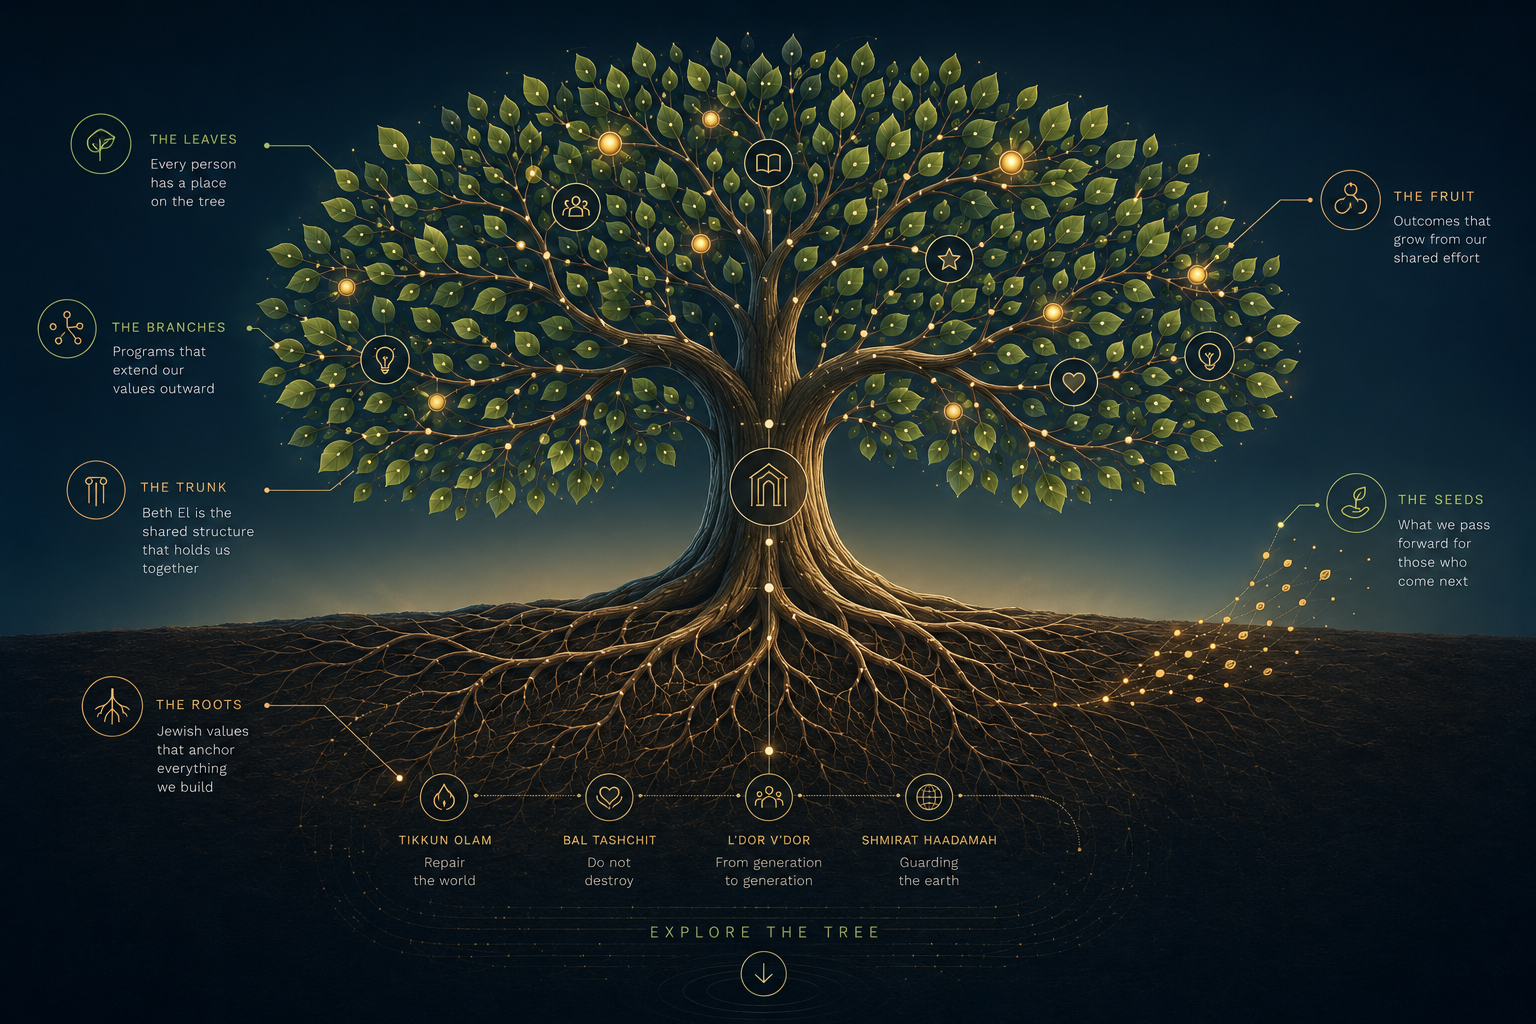
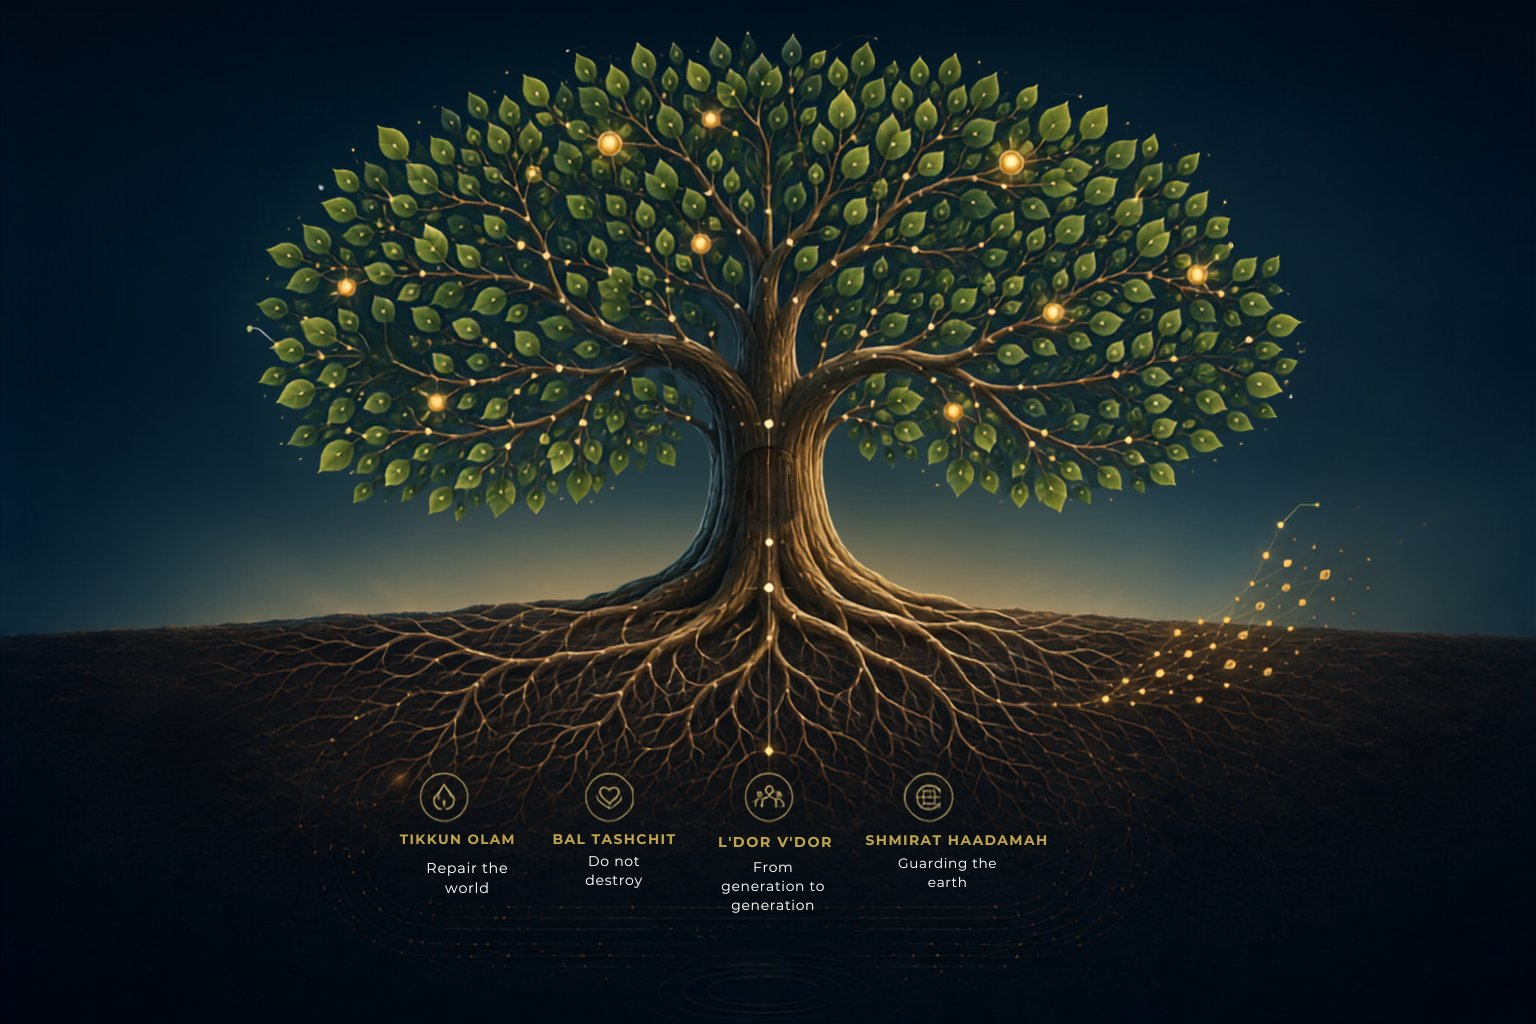
Add files via upload

diff --git a/index.html b/index.html
@@ -181,19 +181,37 @@
     }
     .scroll-arrow:hover { color: var(--gold); }
 
-    /* Clickable tree zones */
-    .tree-zone {
+    /* Clickable tree badges — SVG overlay */
+    .tree-badges {
       position: absolute;
+      inset: 0;
       z-index: 3;
-      border-radius: 8px;
-      border: 1px solid transparent;
-      transition: background 0.2s, border-color 0.2s;
+      pointer-events: none;
+    }
+
+    .tree-badge {
+      pointer-events: all;
       cursor: pointer;
+      text-decoration: none;
     }
-    .tree-zone:hover {
-      background: rgba(200,151,74,0.12);
-      border-color: rgba(200,151,74,0.4);
+
+    .tree-badge circle {
+      transition: fill 0.25s, filter 0.25s;
+      filter: drop-shadow(0 0 4px rgba(200,151,74,0.3));
     }
+
+    .tree-badge:hover circle {
+      fill: rgba(200,151,74,0.25);
+      filter: drop-shadow(0 0 10px rgba(200,151,74,0.8));
+    }
+
+    .tree-badge text {
+      transition: fill 0.25s;
+      pointer-events: none;
+      user-select: none;
+    }
+
+    .tree-badge:hover text { fill: #FFD980; }
 
     /* ══════════════════════════════════════════════
        SHARED SECTION STYLES
@@ -659,13 +677,52 @@
   </div>
   <a href="#roots" class="scroll-arrow" aria-label="Scroll down">↓</a>
 
-  <!-- Clickable label zones mapped to tree image positions -->
-  <a href="#leaves"   class="tree-zone" style="left:4%;  top:8%;  width:14%; height:18%;" aria-label="The Leaves — scroll to section"></a>
-  <a href="#branches" class="tree-zone" style="left:1%;  top:27%; width:14%; height:14%;" aria-label="The Branches — scroll to section"></a>
-  <a href="#trunk"    class="tree-zone" style="left:1%;  top:42%; width:14%; height:14%;" aria-label="The Trunk — scroll to section"></a>
-  <a href="#roots"    class="tree-zone" style="left:1%;  top:59%; width:14%; height:18%;" aria-label="The Roots — scroll to section"></a>
-  <a href="#fruit"    class="tree-zone" style="left:85%; top:13%; width:14%; height:18%;" aria-label="The Fruit — scroll to section"></a>
-  <a href="#seeds"    class="tree-zone" style="left:85%; top:40%; width:14%; height:18%;" aria-label="The Seeds — scroll to section"></a>
+  <!-- SVG badge overlay — positioned as % of hero dimensions -->
+  <svg class="tree-badges" viewBox="0 0 100 100" preserveAspectRatio="none" xmlns="http://www.w3.org/2000/svg">
+
+    <!-- LEAVES — upper left canopy ~22%, 18% -->
+    <a href="#leaves" class="tree-badge" aria-label="The Leaves">
+      <circle cx="22" cy="18" r="5.5" fill="rgba(10,25,15,0.65)" stroke="#C8974A" stroke-width="0.4"/>
+      <text x="22" y="16.8" text-anchor="middle" font-family="'DM Mono',monospace" font-size="2.2" fill="#C8E6A0" font-weight="bold" letter-spacing="0.3">THE</text>
+      <text x="22" y="19.6" text-anchor="middle" font-family="'DM Mono',monospace" font-size="2.2" fill="#C8E6A0" font-weight="bold" letter-spacing="0.3">LEAVES</text>
+    </a>
+
+    <!-- FRUIT — upper right canopy ~78%, 16% -->
+    <a href="#fruit" class="tree-badge" aria-label="The Fruit">
+      <circle cx="78" cy="16" r="5.5" fill="rgba(10,25,15,0.65)" stroke="#C8974A" stroke-width="0.4"/>
+      <text x="78" y="14.8" text-anchor="middle" font-family="'DM Mono',monospace" font-size="2.2" fill="#C8E6A0" font-weight="bold" letter-spacing="0.3">THE</text>
+      <text x="78" y="17.6" text-anchor="middle" font-family="'DM Mono',monospace" font-size="2.2" fill="#C8E6A0" font-weight="bold" letter-spacing="0.3">FRUIT</text>
+    </a>
+
+    <!-- BRANCHES — left mid canopy ~18%, 38% -->
+    <a href="#branches" class="tree-badge" aria-label="The Branches">
+      <circle cx="18" cy="38" r="5.5" fill="rgba(10,25,15,0.65)" stroke="#C8974A" stroke-width="0.4"/>
+      <text x="18" y="36.8" text-anchor="middle" font-family="'DM Mono',monospace" font-size="2.2" fill="#C8E6A0" font-weight="bold" letter-spacing="0.3">THE</text>
+      <text x="18" y="39.6" text-anchor="middle" font-family="'DM Mono',monospace" font-size="2.2" fill="#C8E6A0" font-weight="bold" letter-spacing="0.2">BRANCHES</text>
+    </a>
+
+    <!-- TRUNK — center of trunk ~52%, 52% -->
+    <a href="#trunk" class="tree-badge" aria-label="The Trunk">
+      <circle cx="52" cy="52" r="5.5" fill="rgba(10,25,15,0.65)" stroke="#C8974A" stroke-width="0.4"/>
+      <text x="52" y="50.8" text-anchor="middle" font-family="'DM Mono',monospace" font-size="2.2" fill="#C8E6A0" font-weight="bold" letter-spacing="0.3">THE</text>
+      <text x="52" y="53.6" text-anchor="middle" font-family="'DM Mono',monospace" font-size="2.2" fill="#C8E6A0" font-weight="bold" letter-spacing="0.3">TRUNK</text>
+    </a>
+
+    <!-- ROOTS — below ground center-left ~35%, 72% -->
+    <a href="#roots" class="tree-badge" aria-label="The Roots">
+      <circle cx="35" cy="72" r="5.5" fill="rgba(10,25,15,0.65)" stroke="#C8974A" stroke-width="0.4"/>
+      <text x="35" y="70.8" text-anchor="middle" font-family="'DM Mono',monospace" font-size="2.2" fill="#C8E6A0" font-weight="bold" letter-spacing="0.3">THE</text>
+      <text x="35" y="73.6" text-anchor="middle" font-family="'DM Mono',monospace" font-size="2.2" fill="#C8E6A0" font-weight="bold" letter-spacing="0.3">ROOTS</text>
+    </a>
+
+    <!-- SEEDS — golden trail right side ~86%, 58% -->
+    <a href="#seeds" class="tree-badge" aria-label="The Seeds">
+      <circle cx="86" cy="58" r="5.5" fill="rgba(10,25,15,0.65)" stroke="#C8974A" stroke-width="0.4"/>
+      <text x="86" y="56.8" text-anchor="middle" font-family="'DM Mono',monospace" font-size="2.2" fill="#C8E6A0" font-weight="bold" letter-spacing="0.3">THE</text>
+      <text x="86" y="59.6" text-anchor="middle" font-family="'DM Mono',monospace" font-size="2.2" fill="#C8E6A0" font-weight="bold" letter-spacing="0.3">SEEDS</text>
+    </a>
+
+  </svg>
 </section>
 
 <!-- ══ ROOTS ══════════════════════════════════════════════ -->